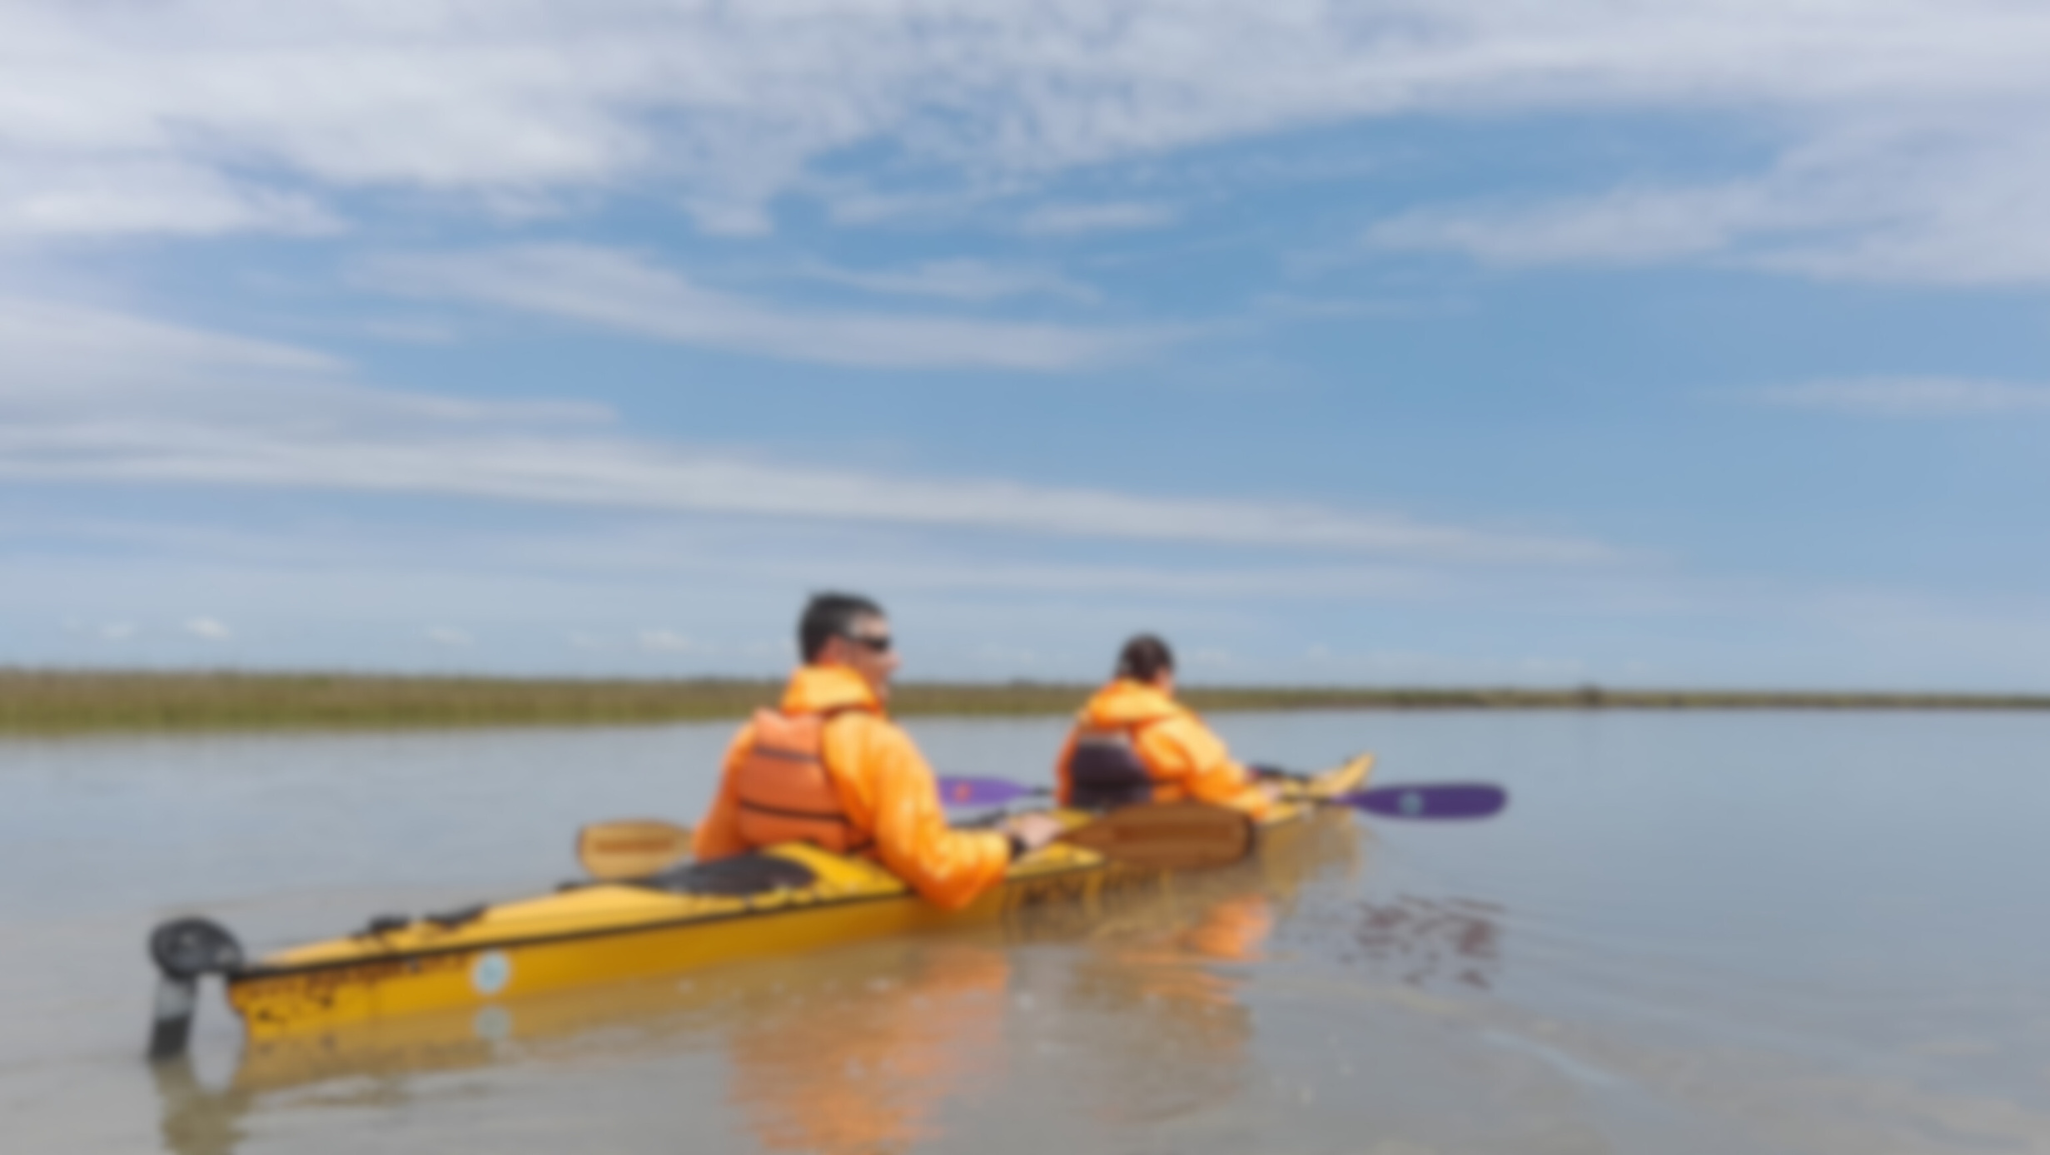
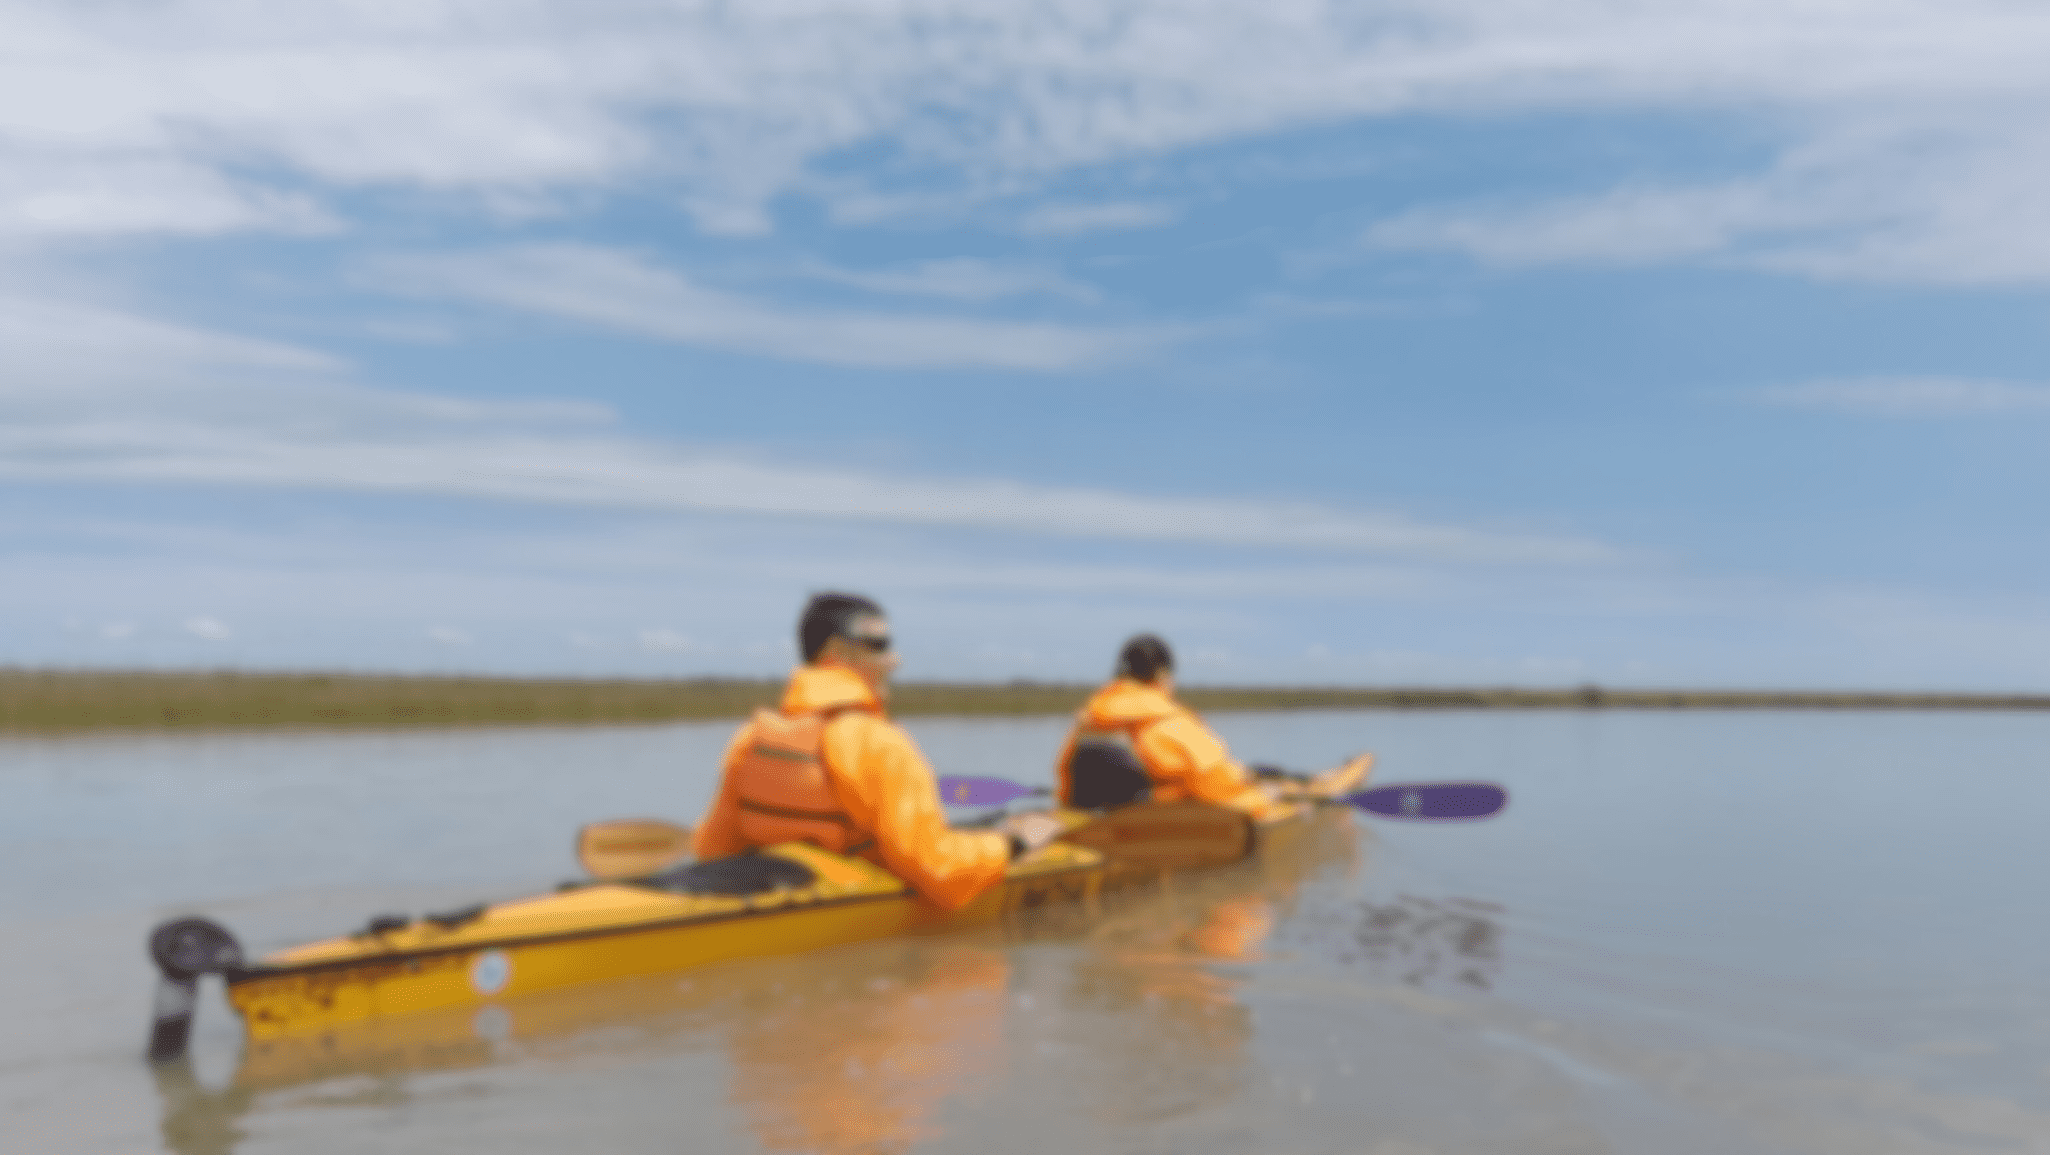
reducción de tamaño de imágenes

diff --git a/css/style.css b/css/style.css
@@ -933,7 +933,7 @@ body {
     }
 
     .expUnic4 {
-        background-image: url('../img/expUnicas/bahiaSamboronbom.JPG');
+        background-image: url('../img/expUnicas/bahiaSamboronbom.jpg');
         background-position: center;
         background-size: cover;
         transition: background-position 6s;
@@ -1019,7 +1019,7 @@ body {
     }
 
     .expEpic2 {
-        background-image: url('../img/expEpic/kayak2.JPG');
+        background-image: url('../img/expEpic/avistadoresAves.jpg');
         background-position: center;
         background-size: cover;
         transition: background-position 6s;
@@ -1498,7 +1498,7 @@ body {
     }
 
     .expUnic4 {
-        background-image: url('../img/expUnicas/bahiaSamboronbom.JPG');
+        background-image: url('../img/expUnicas/bahiaSamboronbom.jpg');
         background-position: center;
         background-size: cover;
         transition: background-position 6s;
@@ -1577,7 +1577,7 @@ body {
     }
 
     .expEpic2 {
-        background-image: url('../img/expEpic/kayak2.JPG');
+        background-image: url('../img/expEpic/avistadoresAves.jpg');
         background-position: center;
         background-size: cover;
         transition: background-position 6s;
